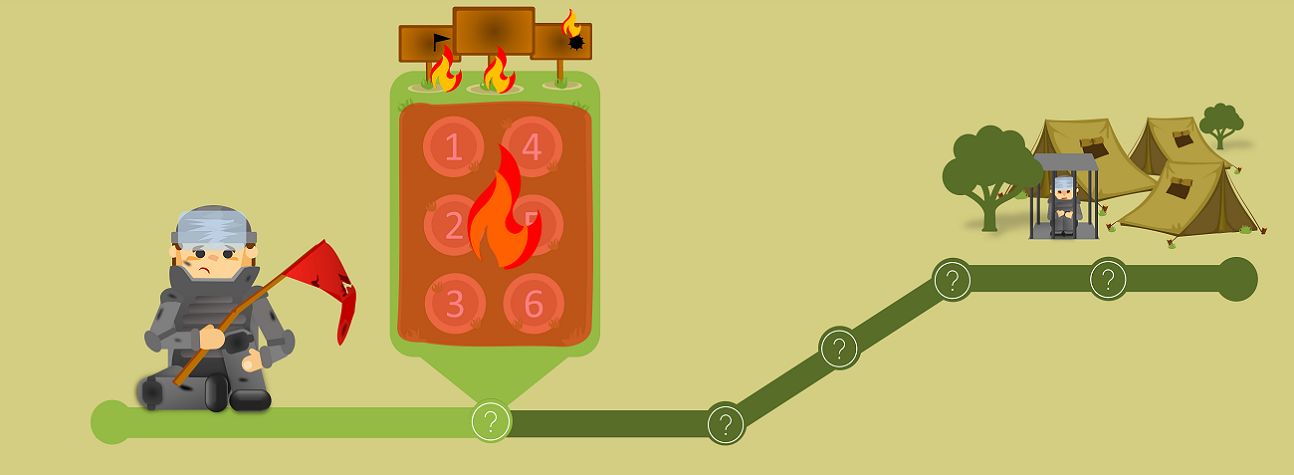
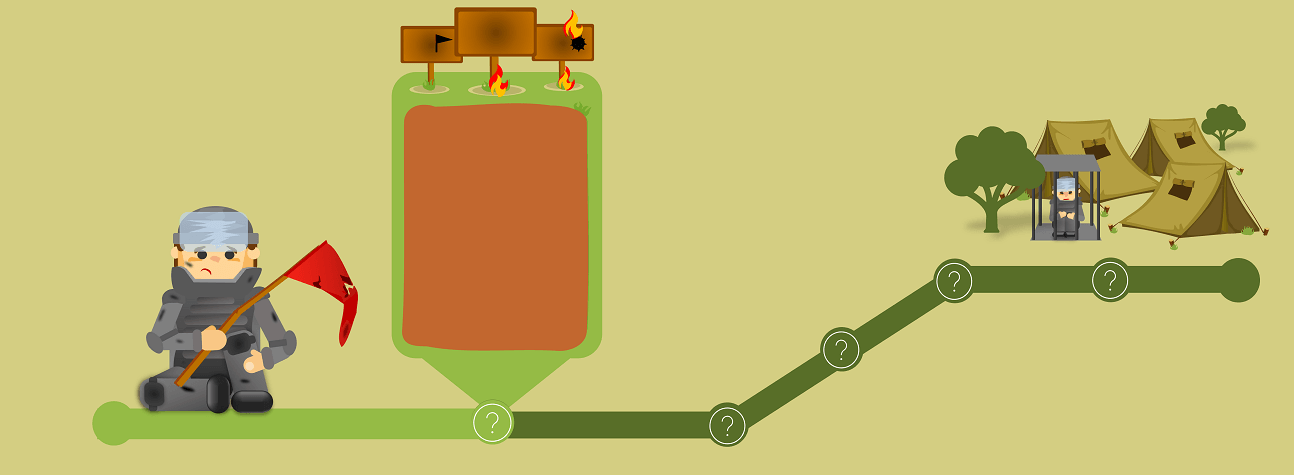
Reduzindo tamanho de imagens, trocando o fundo no caso de erro

diff --git a/campo-minado-braille/src/components/jogo/Letra.js b/campo-minado-braille/src/components/jogo/Letra.js
@@ -29,6 +29,8 @@ function Letra(props) {
     "float-container background-inicial"
   );
 
+  const [classButton, setClassButton] = useState("button_game");
+
   function inicializar() {
     setBotaoUm(label_buttons.botao_1);
     setBotaoDois(label_buttons.botao_2);
@@ -54,6 +56,7 @@ function Letra(props) {
   const texto_alt = "Botão";
   const imagem_correto = "image/acerto_peq.png";
   const imagem_erro = "image/erro.png";
+  const image_fogo_erro = "image/botoes/fogo_sem_numero.png";
 
   console.log(props.letra);
 
@@ -76,18 +79,20 @@ function Letra(props) {
         setExibeBraillinho(true);
         console.log(props);
         setBackground(background_acerto);
+        setClassButton("button_game");
       } else {
         console.log("Você Errou, clicando na posição: %d", pos);
         console.log(props.letra);
-        setBotaoUm(bomba);
-        setBotaoDois(bomba);
-        setBotaoTres(bomba);
-        setBotaoQuatro(bomba);
-        setBotaoCinco(bomba);
-        setBotaoSeis(bomba);
+        setBotaoUm(image_fogo_erro);
+        setBotaoDois(image_fogo_erro);
+        setBotaoTres(image_fogo_erro);
+        setBotaoQuatro(image_fogo_erro);
+        setBotaoCinco(image_fogo_erro);
+        setBotaoSeis(image_fogo_erro);
         setCheckAcerto(false);
         setCheckErro(true);
         setBackground(background_erro);
+        setClassButton("button_game_erro");
       }
     }
   }
@@ -109,11 +114,13 @@ function Letra(props) {
             <div id="caixa_linha">
               <Opcao
                 image={botaoUm}
+                classButton={classButton}
                 alt={texto_alt}
                 onClick={() => handleClick(props.letra, 1)}
               />
               <Opcao
                 image={botaoQuatro}
+                classButton={classButton}
                 alt={texto_alt}
                 onClick={() => handleClick(props.letra, 4)}
               />
@@ -121,11 +128,13 @@ function Letra(props) {
             <div id="caixa_linha">
               <Opcao
                 image={botaoDois}
+                classButton={classButton}
                 alt={texto_alt}
                 onClick={() => handleClick(props.letra, 2)}
               />
               <Opcao
                 image={botaoCinco}
+                classButton={classButton}
                 alt={texto_alt}
                 onClick={() => handleClick(props.letra, 5)}
               />
@@ -133,11 +142,13 @@ function Letra(props) {
             <div id="caixa_linha">
               <Opcao
                 image={botaoTres}
+                classButton={classButton}
                 alt={texto_alt}
                 onClick={() => handleClick(props.letra, 3)}
               />
               <Opcao
                 image={botaoSeis}
+                classButton={classButton}
                 alt={texto_alt}
                 onClick={() => handleClick(props.letra, 6)}
               />

diff --git a/campo-minado-braille/public/css/style.css b/campo-minado-braille/public/css/style.css
@@ -112,6 +112,7 @@ img {
   margin: 0 auto;
   overflow: hidden;
   padding: 0 10px;
+  width: 100%;
 }
 
 .float-container {
@@ -318,10 +319,21 @@ img {
 /*Fim Opcao (Style)*/
 
 button {
+  
+}
+
+.button_game {
   background-color: #78aa2e;
   border: none;
   cursor: pointer;
 }
+
+.button_game_erro {
+  background-color: #E82116;
+  border: none;
+  cursor: pointer;
+}
+
 
 /*Letra resultado*/
 /* #caixa_bombas_bandeiras {

diff --git a/campo-minado-braille/src/components/jogo/Opcao.js b/campo-minado-braille/src/components/jogo/Opcao.js
@@ -4,7 +4,7 @@ function Opcao(props) {
 
   return (
     <div id="opcao">
-      <button id="opcao_4" type="submit">
+      <button id="opcao_4" type="submit" className={props.classButton}>
         <img
           className="img_botao"
           src={props.image}

diff --git a/campo-minado-braille/DEPLOY.md b/campo-minado-braille/DEPLOY.md
@@ -1,18 +1,26 @@
-Instruções para implantação do braille-bum:
+Instruções para implantação do braille-bum no ambiente do heroku:
 
+```console
 git add .
 git commit -m "<Comentario>"
 git push origin main
+```
 
 Instalar o heroku cli para o SO e versão 64 bits;
 
 Autenticar-se no heroku:
 
+```console
 heroku login
+```
 
 Executar pela primeira e única vez:
 
+
+```console
 heroku git:remote -a braille-bum
+```
 
+```console
 git subtree push --prefix campo-minado-braille heroku master
-
+```
